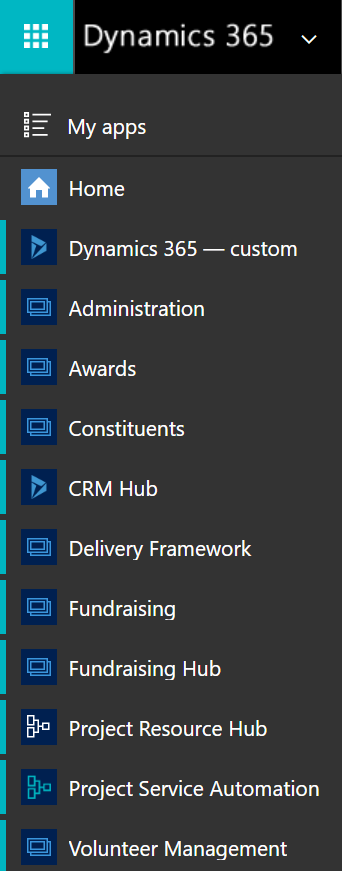
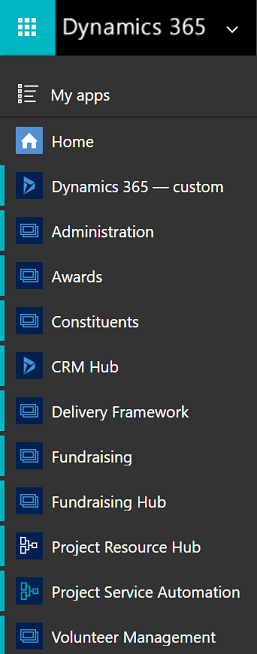
more tweaks to graphics

diff --git a/common-data-model/NFP-accelerator.md b/common-data-model/NFP-accelerator.md
@@ -40,8 +40,8 @@ With the Nonprofit Accelerator plugged in to the Dynamics 365 platform, you can 
 This accelerator adds a nonprofit layer to the rich feature set of the base Dynamics 365 functionality by adding nonprofit entities to record detailed constituent profiles for individuals, households, and organizations. The current data model supports end-to-end fundraising, grants/awards lifecycles, standards-based program delivery, and impact tracking based on the [IATI
 standard](https://iatistandard.org/en/).
 
-![](media/nfp-sitemap_v2a.png)
-![](media/nfp-sitemap_v2b.png)
+![](media/nfp-sitemapA.png)
+![](media/nfp-sitemapB.png)
 
 ## Entities and workflows
 
